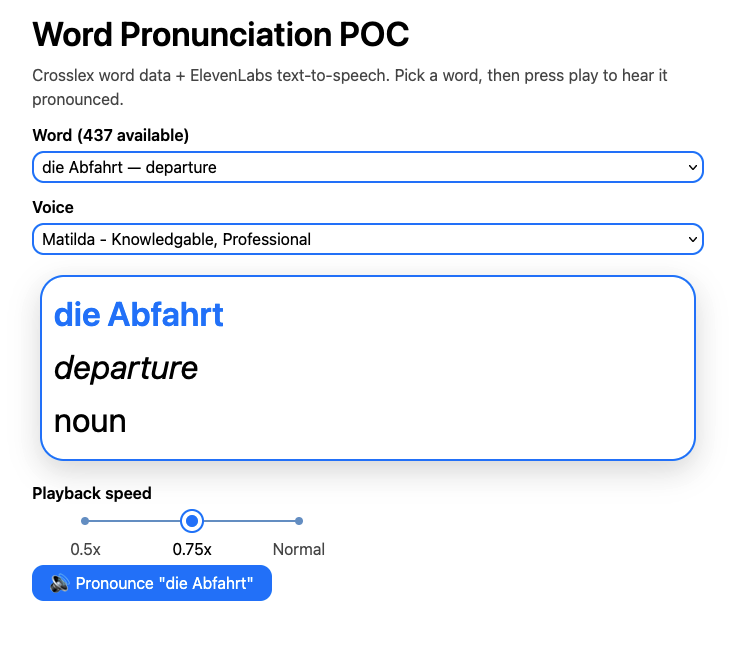
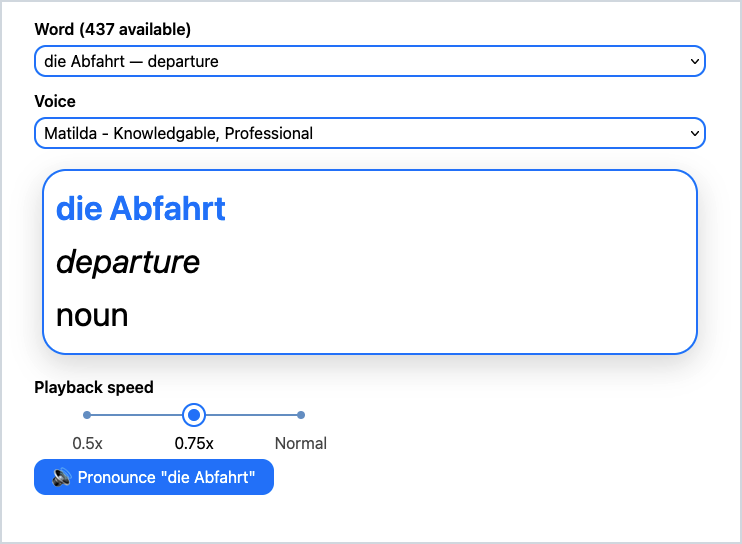
docs: tidy pronunciation POC screenshot and soften an overclaim
- Cropped the screenshot to drop its own in-app title/subtitle — the
  README already has that heading and intro text right above the
  image, so showing it twice was redundant. Added a thin border around
  the crop so it reads as a distinct framed image on the page.
- Reworded the "API key never reaches the browser" bullet: it's true,
  but was stated as an unqualified absolute. Now names what was
  actually verified (grepped every reference to the key in the
  package) and the two real limits on the claim (dev-mode only;
  ElevenLabs' own error responses are forwarded to the client as-is).

Changed region(s): [[0.0, 0.0, 1.0, 1.0]]

diff --git a/website/sites/pronunciation-poc/README.md b/website/sites/pronunciation-poc/README.md
@@ -9,11 +9,18 @@ dataset, and hear it pronounced via the ElevenLabs Text-to-Speech API.
 
 - Integrating the [ElevenLabs TTS API](https://elevenlabs.io/docs/api-reference/text-to-speech)
   (`eleven_multilingual_v2` model) to pronounce arbitrary German text.
-- **The API key never reaches the browser.** A Vite dev-server middleware
-  (`server/elevenLabsProxy.ts`) holds the key server-side and exposes a
-  same-origin `POST /api/tts` endpoint; the client only ever calls that,
-  never `api.elevenlabs.io` directly. Open the browser's network tab —
-  there's no key anywhere in a client-visible request.
+- **The API key stays server-side, in dev mode.** A Vite dev-server
+  middleware (`server/elevenLabsProxy.ts`) holds the key and exposes
+  same-origin `POST /api/tts` / `GET /api/voices`; the client only ever
+  calls those, never `api.elevenlabs.io` directly — every reference to
+  the key in this package is confined to that one file. Open the
+  browser's network tab and check for yourself. Two honest limits on
+  that claim: it only holds under `yarn dev` (the proxy is a
+  `configureServer` hook, which doesn't run in a static build — see
+  Architecture below); and ElevenLabs' own error responses are
+  forwarded to the client as-is, so if their API ever echoed a
+  submitted key back in an error body — not something I've tested for —
+  that's the one path unaccounted for.
 - Reusing real production code from the monorepo: the actual `WordIntro`
   UI component (`@whitelotus/front-entities`) and the actual 400+ word
   Crosslex dataset (`@whitelotus/mock-test`), not mocked/fake data.
